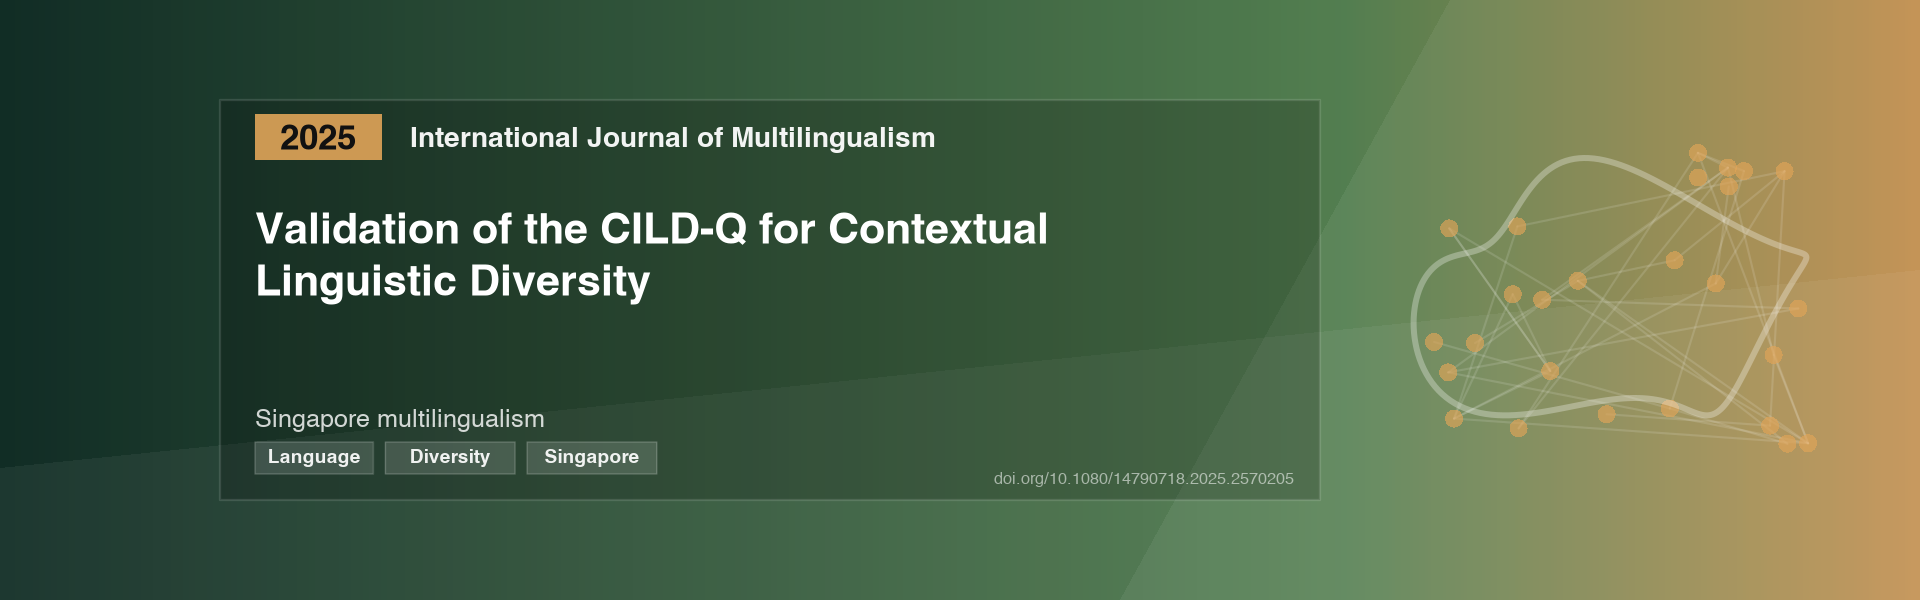
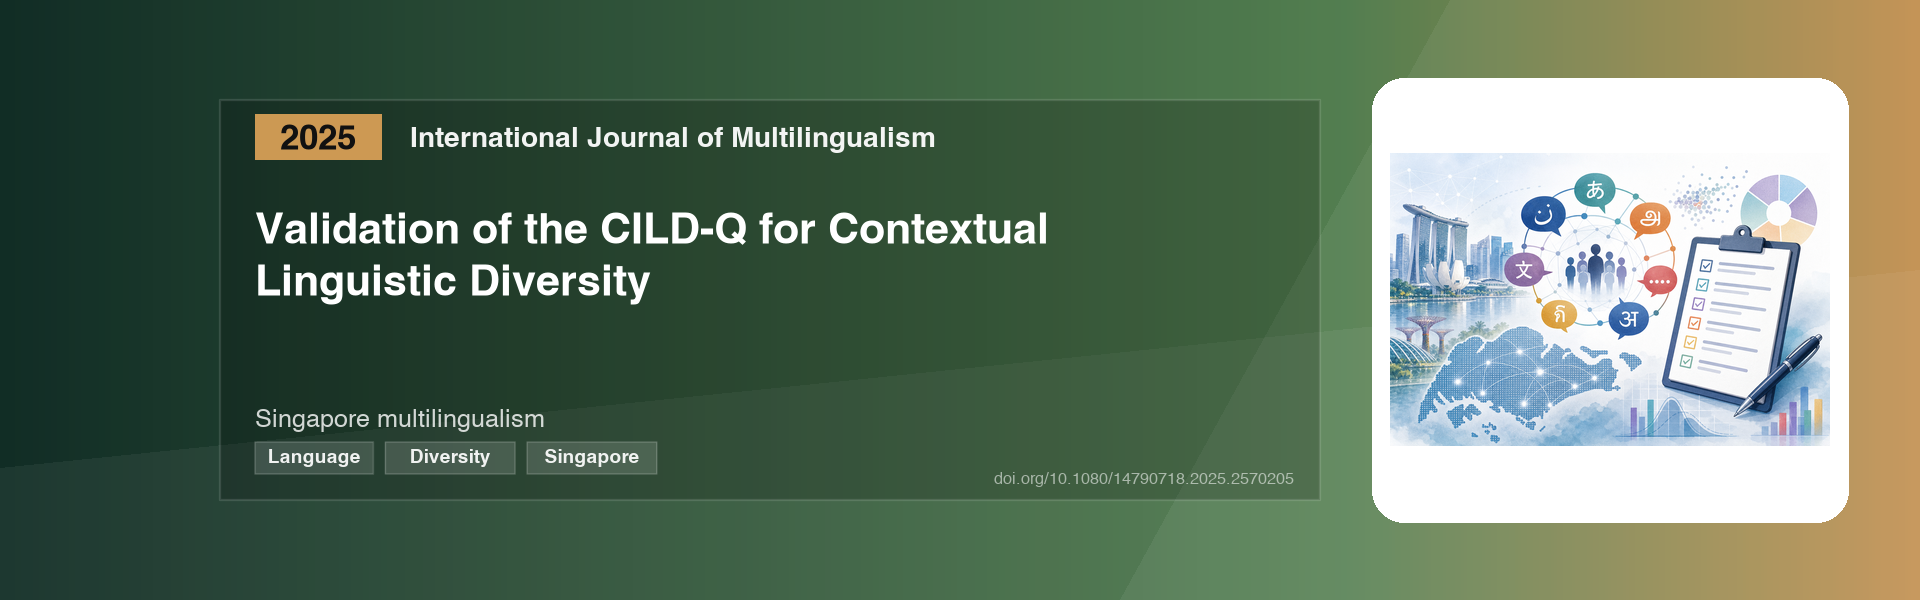
Add publication updates

Changed region(s): [[0.6875, 0.12, 0.9688, 0.87]]

diff --git a/content/publication/2025-personalized-tdcs-outcomes/index.md b/content/publication/2025-personalized-tdcs-outcomes/index.md
@@ -1,0 +1,29 @@
+---
+abstract: "Transcranial direct current stimulation (tDCS) is emerging as a home-based intervention for neuropsychiatric conditions and cognitive enhancement, but its effectiveness is limited by interindividual variability because fixed-dose protocols do not account for anatomical differences that influence current delivery. This comparative effectiveness study used a within-participant, double-masked, crossover design to compare fixed-dose, individualized-dose, and sham stimulation in adult bilingual participants. Individualized dosing was calculated with a custom simulation toolbox. Behavioral performance was measured with reaction time during a rapid naming task and neurophysiological effects were assessed using motor-evoked potentials. Individualized-dose tDCS was associated with greater reaction-time improvement over sham than fixed-dose tDCS, lower variability in response, and conversion of several nonresponders to responders. Neurophysiological measures also showed stronger poststimulation effects for individualized dosing. These findings support dose-controlled tDCS as a more consistent approach for behavioral and neurophysiological improvement."
+authors:
+- Sagarika Bhattacharjee
+- Palanimuthu T. Sivakumar
+- Ganesan Venkatasubramanian
+- Rose Dawn Bharath
+- Kenichi Oishi
+- Brenda Rapp
+- John E. Desmond
+- S. H. Annabel Chen
+- T. N. Sathyaprabha
+- Kaviraja Udupa
+- Rajan Kashyap
+date: "2025-08-25"
+doi: "10.1001/jamanetworkopen.2025.26148"
+featured: false
+projects: []
+publication: "JAMA Network Open"
+publication_short: ""
+publication_types:
+- "2"
+publishDate: "2025-08-25"
+tags:
+- tDCS
+- neurostimulation
+- individualized dosing
+title: "Personalized Transcranial Direct Current Stimulation for Behavioral and Neurophysiologic Outcomes"
+---

diff --git a/content/publication/2026-national-identity-brain-responses/index.md b/content/publication/2026-national-identity-brain-responses/index.md
@@ -1,0 +1,22 @@
+---
+abstract: "How the human brain flexibly adapts social perception by recategorizing out-group (them) to in-group (us) remains unclear. Using functional MRI in Singapore's multicultural population, we investigated how priming subordinate (ethnic) versus superordinate (national) identities reshapes neural processing of ethnic in-group and out-group faces. We demonstrate that the ventromedial prefrontal cortex, a hub for self-referential processing, preferentially activates for ethnic in-group faces under ethnic identity priming, while showing increased engagement for ethnic out-group faces under national identity priming. Representational similarity analyses reveal that national priming reduces the neural representational distance between in-group and out-group faces, though ethnic distinctions persisted. These findings provide neural evidence for the Common Ingroup Identity Model, revealing a partial recategorization process in which superordinate identity priming increases self-referential processing of former out-group members while maintaining underlying ethnic category distinctions. These results elucidate the neural mechanisms supporting identity flexibility with implications for improving intergroup relations in diverse societies."
+authors:
+- Kelly H. L. Sng
+- Nisha Syed Nasser
+- Gianluca Esposito
+- SH Annabel Chen
+date: "2026-04-07"
+doi: "10.1073/pnas.2531563123"
+featured: false
+projects: []
+publication: "Proceedings of the National Academy of Sciences"
+publication_short: "PNAS"
+publication_types:
+- "2"
+publishDate: "2026-03-30"
+tags:
+- social neuroscience
+- national identity
+- fMRI
+title: "National identity reconfigures brain responses from them to us"
+---

diff --git a/content/publication/2025-ppa-brain-networks/index.md b/content/publication/2025-ppa-brain-networks/index.md
@@ -1,0 +1,27 @@
+---
+abstract: "Semantic and non-fluent variants of primary progressive aphasia show both shared and distinct features, reflecting changes in underlying brain networks. This study used individualized resting-state fMRI and algebraic-topology methods to examine common and variant-specific networks in patients with non-fluent and semantic primary progressive aphasia and matched controls. The analyses identified a left-lateralized common network associated with language and cognition that remained relatively stable over 12 months and related to dementia severity. Variant-specific right-dominant networks showed progressive disintegration, with cerebellar dissociation linked to daily-life decline in semantic primary progressive aphasia and parietal degradation linked to naming impairment in non-fluent primary progressive aphasia. Structural connectivity and grey matter findings supported the functional network results. The findings suggest that rehabilitation strategies for primary progressive aphasia should consider right-hemispheric network progression alongside conventional left-hemispheric approaches."
+authors:
+- Rajan Kashyap
+- Rose Dawn Bharath
+- Changsong Zhou
+- Kyrana Tsapkini
+- John E. Desmond
+- SH Annabel Chen
+- Kaviraja Udupa
+- PT Sivakumar
+- Sagarika Bhattacharjee
+date: "2025-08-19"
+doi: "10.1186/s13195-025-01800-z"
+featured: false
+projects: []
+publication: "Alzheimer's Research & Therapy"
+publication_short: ""
+publication_types:
+- "2"
+publishDate: "2025-08-19"
+tags:
+- primary progressive aphasia
+- brain networks
+- resting-state fMRI
+title: "Longitudinal evaluation of common and unique brain-networks in variants of primary progressive aphasia"
+---

diff --git a/content/publication/2025-ppa-tdcs-protocols/index.md b/content/publication/2025-ppa-tdcs-protocols/index.md
@@ -1,0 +1,29 @@
+---
+abstract: "The non-fluent and semantic variants of primary progressive aphasia associated with frontotemporal lobar degeneration show distinct structural and functional abnormalities. Because transcranial direct current stimulation current distribution depends on brain structure and function, a single arbitrary montage may be inappropriate across variants. This study used T1-weighted and resting-state fMRI data from healthy controls and patients with non-fluent or semantic primary progressive aphasia to evaluate grey matter volume, functional entropy, and electric-field models for dorsal, ventral, and frontal tDCS montages. Atrophy distribution primarily influenced current spread and montage suitability. The frontal montage was identified as most suitable for non-fluent primary progressive aphasia, while the ventral montage was most suitable for semantic primary progressive aphasia. The findings support pathology-specific tDCS montage selection for variant-based modulation of the language network."
+authors:
+- Sagarika Bhattacharjee
+- P. T. Sivakumar
+- Ganesan Venkatasubramanian
+- Kenichi Oishi
+- Kyrana Tsapkini
+- S. H. Annabel Chen
+- Brenda Rapp
+- John E. Desmond
+- T. N. Sathyaprabha
+- Kaviraja Udupa
+- Rajan Kashyap
+date: "2025-07-14"
+doi: "10.1186/s13195-025-01737-3"
+featured: false
+projects: []
+publication: "Alzheimer's Research & Therapy"
+publication_short: ""
+publication_types:
+- "2"
+publishDate: "2025-07-14"
+tags:
+- primary progressive aphasia
+- tDCS
+- neurostimulation
+title: "The role of structural and functional parameters in designing pathology-specific tDCS protocols for primary progressive aphasia"
+---

diff --git a/content/publication/2026-set-shifting-divergent-thinking/index.md b/content/publication/2026-set-shifting-divergent-thinking/index.md
@@ -1,0 +1,32 @@
+---
+abstract: "Cognitive flexibility, the capacity to adaptively shift between mental sets, includes subprocesses such as set-shifting and task-switching and changes across development. Divergent thinking, a core aspect of creativity, also develops substantially during adolescence. This study examined cognitive flexibility and divergent thinking in a large adolescent sample. Participants completed measures including the Wisconsin Card Sorting Task, task-set switching, working memory, inhibitory control, abstract reasoning, and the Alternate Uses Task. Results showed that cognitive flexibility subprocesses differentially contributed to divergent thinking: set-shifting positively predicted both fluency and originality, whereas task-switching predicted lower originality. These findings suggest that cognitive flexibility is not unitary and that strategic, self-guided flexibility may support adolescents' capacity to generate original solutions."
+authors:
+- Nastassja L. Fischer
+- Kastoori Kalaivanan
+- Ke Tong
+- Ryutaro Uchiyama
+- Phillis W. L. Fu
+- Timothy Lee
+- Victoria Leong
+- S. H. Annabel Chen
+- Trevor W. Robbins
+- Barbara J. Sahakian
+- Peter Seow
+- Chew Lee Teo
+- David Hung
+- Michelle R. Ellefson
+date: "2026-04-28"
+doi: "10.1186/s40359-026-04584-5"
+featured: false
+projects: []
+publication: "BMC Psychology"
+publication_short: ""
+publication_types:
+- "2"
+publishDate: "2026-04-28"
+tags:
+- cognitive flexibility
+- divergent thinking
+- adolescence
+title: "Set-shifting and task-switching make differential contributions to divergent thinking in adolescence"
+---

diff --git a/content/publication/2026-reading-working-memory/index.md b/content/publication/2026-reading-working-memory/index.md
@@ -1,0 +1,24 @@
+---
+abstract: "Given the central role of working memory in reading, this meta-analysis examined the relationship between reading, specifically decoding, and working memory in children and adolescents. Across 127 studies and 632 effect sizes, reading and working memory showed a significant moderate positive correlation. This relationship was consistent across children and adolescents, suggesting that age group alone did not explain the association. Working memory domain significantly moderated the relationship, with composite working memory showing the strongest association with reading, followed by verbal-numerical working memory. Typically developing children showed stronger reading-working memory associations than children with reading difficulties. The findings underscore the importance of considering working memory in reading development and highlight the need for future work on age-related differences in this relationship."
+authors:
+- Ling Lynette Looi
+- Wilson Peng Hian Lim
+- Chiao-Yi Wu
+- Beth Ann O'Brien
+- Darren J. Yeo
+- Shen-Hsing Annabel Chen
+date: "2026-12-01"
+doi: "10.1007/s10648-026-10151-6"
+featured: false
+projects: []
+publication: "Educational Psychology Review"
+publication_short: ""
+publication_types:
+- "2"
+publishDate: "2026-05-01"
+tags:
+- reading
+- working memory
+- meta-analysis
+title: "Relationship Between Reading and Working Memory in Children and Adolescents: A Meta-Analysis"
+---

diff --git a/content/publication/2025-ppa-stimulation-targets/index.md b/content/publication/2025-ppa-stimulation-targets/index.md
@@ -1,0 +1,33 @@
+---
+abstract: "This narrative review examines target regions for non-invasive brain stimulation of the language network in primary progressive aphasia. The review synthesizes evidence from neuroanatomy, language-network models, neuroimaging, and stimulation studies to identify candidate regions that may support intervention planning. By considering the heterogeneity of primary progressive aphasia and the distributed organization of language networks, the article highlights the importance of selecting stimulation targets that are informed by pathology, network involvement, and clinical presentation."
+authors:
+- Sagarika Bhattacharjee
+- Irtisha Chakraborty
+- Rajan Kashyap
+- Vanteemar S. Sreeraj
+- Faheem Arshad
+- B. K. Yamini
+- Rose Dawn Bharath
+- P. T. Sivakumar
+- Ganesan Venkatsubramanian
+- Suvarna Alladi
+- Kenichi Oishi
+- John E. Desmond
+- S. H. Annabel Chen
+- T. N. Sathyaprabha
+- Kaviraja Udupa
+date: "2025-09-01"
+doi: "10.1016/j.dscb.2025.100255"
+featured: false
+projects: []
+publication: "Brain Disorders"
+publication_short: ""
+publication_types:
+- "2"
+publishDate: "2025-09-01"
+tags:
+- primary progressive aphasia
+- language network
+- brain stimulation
+title: "Identifying target regions for non-invasive brain stimulation of the language network in primary progressive aphasia: A narrative review"
+---

diff --git a/content/publication/2026-ingroup-outgroup-fmri-meta/index.md b/content/publication/2026-ingroup-outgroup-fmri-meta/index.md
@@ -1,0 +1,23 @@
+---
+abstract: "This meta-analysis examined systematic variation in neural activation during in-group and out-group categorization. Using activation likelihood estimation and PRISMA-guided methods, the study analyzed task-fMRI studies of healthy adults that reported whole-brain results in standard stereotaxic space. Overall in-group greater than out-group processing showed significant clusters including the left insula, inferior frontal gyrus, and uncus, while out-group greater than in-group processing showed clusters including the right presupplementary motor area. Analyses by group membership and task type revealed distinct patterns for ethnicity-based categorization and empathy processing. The findings suggest that group processing is not governed by a single universal neural mechanism, but varies by social category and task context."
+authors:
+- Kelly H. L. Sng
+- Xavier Y. H. Lim
+- Annabel S. H. Chen
+- Gianluca Esposito
+date: "2026-04-01"
+doi: "10.1002/brb3.71314"
+featured: false
+projects: []
+publication: "Brain and Behavior"
+publication_short: ""
+publication_types:
+- "2"
+publishDate: "2026-04-01"
+tags:
+- fMRI
+- in-group
+- out-group
+- meta-analysis
+title: "A Meta-Analysis of Functional Magnetic Resonance Imaging Studies on In-Group and Out-Group Categorization"
+---

diff --git a/content/publication/2025-cildq-linguistic-diversity/index.md b/content/publication/2025-cildq-linguistic-diversity/index.md
@@ -1,0 +1,33 @@
+---
+abstract: "This study validates the Contextual and Individual Linguistic Diversity Questionnaire (CILD-Q) for measuring contextual linguistic diversity in Singapore. The work addresses the need for instruments that can capture language experience in highly multilingual environments, where language exposure and use vary across social settings, communities, and individual histories. By evaluating the CILD-Q in the Singapore context, the study supports more precise measurement of linguistic diversity for research on multilingualism, cognition, education, and social communication."
+authors:
+- Nadhilla Melia
+- Georgios Christopoulos
+- Mandy Wigdorowitz
+- Chrysoula Vassiliu
+- Shengchuang Feng
+- Akshay Abraham
+- Yuan Ni Chan
+- Li Ling Lee
+- Hui Shan Yap
+- Trevor Robbins
+- Barbara Sahakian
+- Zoe Kourtzi
+- Victoria Leong
+- Annabel Chen
+- Henriette Hendriks
+date: "2025-10-21"
+doi: "10.1080/14790718.2025.2570205"
+featured: false
+projects: []
+publication: "International Journal of Multilingualism"
+publication_short: ""
+publication_types:
+- "2"
+publishDate: "2025-10-21"
+tags:
+- multilingualism
+- linguistic diversity
+- Singapore
+title: "Validation of the CILD-Q for measuring contextual linguistic diversity in Singapore"
+---

diff --git a/content/publication/2025-phq4-depression-anxiety/index.md b/content/publication/2025-phq4-depression-anxiety/index.md
@@ -1,0 +1,22 @@
+---
+abstract: "The PHQ-4 is an ultra-brief screening questionnaire for depression and anxiety. This brief report tests whether adding one additional response option, once or twice, between not at all and several days improves the scale's sensitivity to milder alterations and increases its usefulness in subclinical populations. A pilot study showed prevalent use of the new response option, and a follow-up validation study confirmed that the refined version offered improved sensitivity to subclinical variability in depression compared with the original version. The findings suggest that adding the once-or-twice response option is a low-cost way to increase the PHQ-4's sensitivity for general population research."
+authors:
+- Dominique Makowski
+- An Shu Te
+- Ana Neves
+- S. H. Annabel Chen
+date: "2025-08-22"
+doi: "10.1525/collabra.143431"
+featured: false
+projects: []
+publication: "Collabra: Psychology"
+publication_short: ""
+publication_types:
+- "2"
+publishDate: "2025-08-22"
+tags:
+- depression
+- anxiety
+- PHQ-4
+title: "Measuring Depression and Anxiety With 4 Items? Adaptation of the PHQ-4 to Increase Its Sensitivity to Subclinical Variability"
+---

diff --git a/content/publication/2026-inventive-thinking/index.md b/content/publication/2026-inventive-thinking/index.md
@@ -1,0 +1,23 @@
+---
+abstract: "This scoping review examines how inventive thinking has been defined and measured across the literature. The review synthesizes conceptual and methodological approaches to inventive thinking and identifies how researchers have operationalized the construct in educational, cognitive, and applied contexts. By mapping existing definitions and measures, the article clarifies overlaps and distinctions between inventive thinking and related constructs such as creativity, problem solving, innovation, and higher-order cognition. The review highlights the need for clearer construct boundaries and more consistent measurement practices to support future research and educational applications."
+authors:
+- Siew Hiang Sally Ng
+- Cameron Mavericks Choo
+- Ching Ling Sharon Yap
+- Lena Sam
+- Shen-Hsing Annabel Chen
+date: "2026-09-01"
+doi: "10.1016/j.tsc.2026.102176"
+featured: false
+projects: []
+publication: "Thinking Skills and Creativity"
+publication_short: ""
+publication_types:
+- "2"
+publishDate: "2026-05-01"
+tags:
+- inventive thinking
+- creativity
+- scoping review
+title: "Defining and measuring inventive thinking: A scoping review"
+---

diff --git a/content/publication/2025-lifespan-learning-review/index.md b/content/publication/2025-lifespan-learning-review/index.md
@@ -1,0 +1,21 @@
+---
+abstract: "This systematic review examines cognitive and neural mechanisms of learning and interventions for improving learning across the adult lifespan. The review synthesizes evidence on how learning processes change with age, how neural systems support learning in adulthood and later life, and which intervention approaches have been used to enhance learning outcomes. By integrating cognitive and neural evidence, the article identifies key mechanisms and methodological considerations for designing learning interventions that are sensitive to developmental stage and adult lifespan context."
+authors:
+- Adam John Privitera
+- Siew Hiang Sally Ng
+- Shen-Hsing Annabel Chen
+date: "2025-09-01"
+doi: "10.1016/j.neubiorev.2025.106281"
+featured: false
+projects: []
+publication: "Neuroscience & Biobehavioral Reviews"
+publication_short: ""
+publication_types:
+- "2"
+publishDate: "2025-09-01"
+tags:
+- learning
+- adult lifespan
+- systematic review
+title: "Cognitive and neural mechanisms of learning and interventions for improvement across the adult lifespan: A systematic review"
+---
